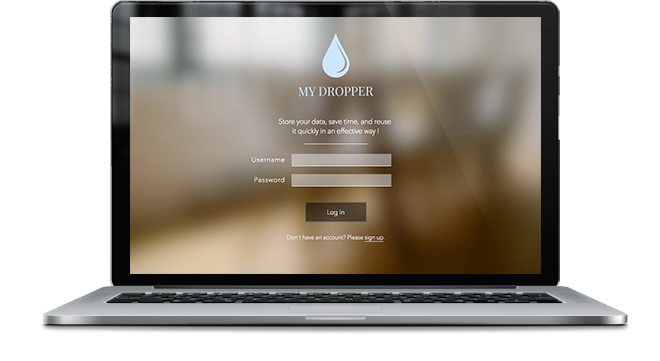
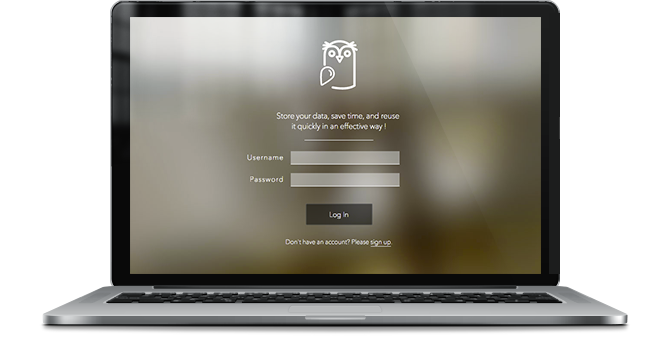
Front#Web - Designer feedbacks done
- Reduce logo
- Add hover info on pushbullet icon in signup page
- Update all screenshots on how it works page
- Remove all console.log for production

diff --git a/Web/assets/scss/home.scss b/Web/assets/scss/home.scss
@@ -24,7 +24,7 @@ $greySectionTxt : #282828;
         }
         #logo {
             margin-top : 10px;
-            width : 120px;
+            width : 90px;
         }
     }
     footer {
@@ -76,7 +76,7 @@ $greySectionTxt : #282828;
         display: block;
         margin: auto;
         min-width: 80px;
-        max-width: 110px;
+        max-width: 90px;
         width: 15%;
         padding-top: 50px;
     }
@@ -262,10 +262,10 @@ $greySectionTxt : #282828;
                 color : black;
                 padding : 5px;
                 width : 150px;
-                font-size : 1rem;
+                font-size: 0.9rem;
                 position: absolute;
-                top: -130px;
-                right: -170px;
+                top: -152px;
+                right: -168px;
                 cursor : pointer;
                 transition: all 1s ease;
                 &:after {
@@ -280,7 +280,11 @@ $greySectionTxt : #282828;
                     left: 0px;
                 }
             }
-
+            &:hover {
+                .info {
+                    opacity: 1;
+                }
+            }
         }
     }
 }

diff --git a/Web/assets/js/models/model.js b/Web/assets/js/models/model.js
@@ -6,7 +6,6 @@ var Model = {
 	"tracking" : {
 
 		getCategoryList : function(callback) {
-			console.log('UserId : ' + Model.userId);
 			$.getJSON( "/api/categories/"+ Model.userId, function( response ) {
 				callback.call(this, response.categoryList);
 			});
@@ -14,7 +13,6 @@ var Model = {
 
 		getCategoryGraphData : function(cat, fromDate, toDate, callback) {
 			$.post('/api/categoryglobal/', { user_id : Model.userId, cat_id : cat, from : fromDate, to : toDate }, function(response) {
-				console.log('getCategoryGraphData response : ', response.data);
 				if(response.data.graphData) {
 					var dataResponse = response.data,
 						graphData = dataResponse.graphData,
@@ -56,8 +54,6 @@ var Model = {
 			$.post(admin.origin+"/api/historyasync/", {user_id: Model.userId, token_api: Model.tokenApi, pagination: 10, pages : currentPage}, "json")
 				.done(function(response) {
 					callback.call(this, response);
-				}).fail(function(response) {
-					console.log('error : ', response);
 				});
 		}
 	},

diff --git a/Web/assets/js/views/ui.js b/Web/assets/js/views/ui.js
@@ -168,7 +168,6 @@ var UI = {
 				UI.profile.$form.addClass('disabled').removeClass ('enabled');
 				UI.profile.$form.html(UI.profile.$htmlForm).promise().done (function () {
 					UI.profile.$inputs.prop('disabled',true);
-					console.log(UI.profile.$date);
 					$('#birthdayProfile')
 						.datepicker({ dateFormat: 'mm-dd-yy' })
 						.datepicker("setDate", UI.profile.$date);

diff --git a/Web/assets/scss/global.scss b/Web/assets/scss/global.scss
@@ -464,6 +464,7 @@ a {
     left : calc(100% - 12px);
     z-index:  100000001;
     cursor : pointer;
+    opacity : 0.95;
 }
 
 #tooltipsContent {
